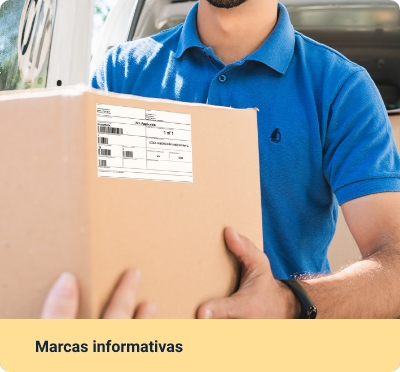
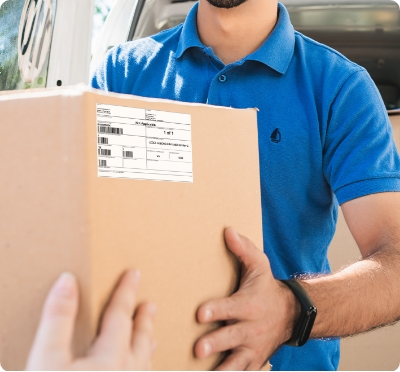
Ajustes Repositorio 1

Changed region(s): [[0.0, 0.8575, 1.0, 1.0]]

diff --git a/src/views/Tema3.vue b/src/views/Tema3.vue
@@ -14,10 +14,11 @@
         .tarjeta.tarjeta-slide.arriba.color-primario(@mouseover="indicadorTarjetaSlide = false")
           .indicador--hover(v-if="indicadorTarjetaSlide")
           .tarjeta-slide__contenedor
-            .tarjeta-slide__contenido.p-4.p-xl-5
+            .tarjeta-slide__contenido.p-4.px-5
               h5.mt-5.pt-5 Marcas informativas
               p.mb-5.mb-5 Son las que tienen relación con la información del producto.
             .tarjeta-slide__img(:style="{'background-image': `url(${require('@/assets/curso/temas/img31.jpg')})`}")
+              h3.text-center.p-flip_img.p-color.py-3 Marcas informativas
 
       .col-sm-6.col-xl-4.mb-4.mb-xl-0(data-aos="fade-down")
         .tarjeta.tarjeta-slide.arriba.color-primario(@mouseover="indicadorTarjetaSlide = false")
@@ -27,6 +28,7 @@
               h5.mt-5.pt-5 Marcas de manipuleo
               p.mb-5.mb-5 Son los símbolos o las orientaciones gráficas internacionales que permiten una correcta manipulación del producto o mercancías.
             .tarjeta-slide__img(:style="{'background-image': `url(${require('@/assets/curso/temas/img32.jpg')})`}")
+              h3.text-center.p-flip_img.p-color.py-3 Marcas de manipuleo          
 
       .col-sm-6.col-xl-4.mb-4.mb-xl-0(data-aos="fade-left")
         .tarjeta.tarjeta-slide.arriba.color-primario(@mouseover="indicadorTarjetaSlide = false")
@@ -36,6 +38,7 @@
               h5.mt-5.pt-5 Marca de expedición 
               p.mb-5.mb-5 Refiere los datos necesarios para la entrega de la mercancía o el embalaje al destinatario o en el lugar de destino.
             .tarjeta-slide__img(:style="{'background-image': `url(${require('@/assets/curso/temas/img33.jpg')})`}")
+              h3.text-center.p-flip_img.p-color.py-3 Marca de expedición
 
     TabsA.color-primario.mt-5(data-aos="fade-left") 
       .tarjeta.color-acento-botones--borde.p-4(titulo="Indebilidad")
@@ -92,7 +95,7 @@
         .col
           .row.justify-content-between.align-items-center
             .col.mb-3.mb-sm-0
-              p.mb-0 Si es de su interés ampliar la información puede ir al material complementario y consultar el video #[b “Etiquetado, marcado y rotulación”]
+              p.mb-0 Si es de su interés ampliar la información puede ir al material complementario y consultar el video #[b etiquetado, marcado, rotulación y legalidades]
             .col-sm-auto
               a.boton.color-acento-contenido.texto-blanco(href="https://www.youtube.com/watch?v=iYronFs13cE" target="_blank")
                 span Ver más

diff --git a/src/views/Tema1.vue b/src/views/Tema1.vue
@@ -218,7 +218,7 @@
         .col
           .row.justify-content-between.align-items-center
             .col.mb-3.mb-sm-0
-              p.mb-0 Si es de su interés ampliar la información puede ir al material complementario  y consultar el video #[b “Cálculo de peso volumétrico para paquetes”.]
+              p.mb-0 Si es de su interés ampliar la información puede ir al material complementario  y consultar el video #[b Cómo calcular el peso volumétrico de tus paquetes | Importación Courier.]
             .col-sm-auto
               a.boton.color-acento-contenido.texto-blanco(href="https://www.youtube.com/watch?v=K7lefxdO_io" target="_blank")
                 span Ver más
@@ -383,7 +383,7 @@
         .col
           .row.justify-content-between.align-items-center
             .col.mb-3.mb-sm-0
-              p.mb-0 Si es de su interés ampliar la información puede ir al material complementario y consultar el video #[b “Mercancías peligrosas”.]
+              p.mb-0 Si es de su interés ampliar la información puede ir al material complementario y consultar el video #[b Etiquetas de mercancías peligrosas ADR.]
             .col-sm-auto
               a.boton.color-acento-contenido.texto-blanco(href="https://www.youtube.com/watch?v=3YgFdAOl4jM" target="_blank")
                 span Ver más

diff --git a/src/views/Tema4.vue b/src/views/Tema4.vue
@@ -184,7 +184,7 @@
             p Referente al volumen y peso o peso volumétrico es la medida que se utiliza en el sector transporte y, hay que tener en cuenta que el tamaño de los envíos expresa densidad, esto sirve para calcular el volumen y calcular el peso real del envío, el peso volumétrico es la principal variable para establecer tarifas, como se trató en el numeral 1.2 peso y volumen la fórmula para definir el peso volumétrico es: 
             br 
             br
-            p.colorp-yellow.p-3 Largo x Ancho x Alto = Factor de peso volumétrico.
+            p.colorp-yellow.p-1 Largo x Ancho x Alto = Factor de peso volumétrico.
             br
             br
 

diff --git a/src/views/Tema2.vue b/src/views/Tema2.vue
@@ -38,7 +38,7 @@
         .col
           .row.justify-content-between.align-items-center
             .col.mb-3.mb-sm-0
-              p.mb-0 Si es de su interés ampliar la información puede ir al material complementario y consultar el video #[b “Envase, empaque, embalaje”]
+              p.mb-0 Si es de su interés ampliar la información puede ir al material complementario y consultar el video #[b envase, empaque y embalaje]
             .col-sm-auto
               a.boton.color-acento-contenido.texto-blanco(href="https://www.youtube.com/watch?v=bk8o7KSwJho" target="_blank")
                 span Ver más

diff --git a/src/styles/_custom.sass b/src/styles/_custom.sass
@@ -306,3 +306,18 @@
     transform: translateY(-20px)
   100%
     transform: translateY(-20px)
+
+.up
+  z-index: 3  
+
+.p-flip_img  
+  position: absolute
+  top: 85%
+  left: 0
+  right: 0
+  bottom: 0
+  margin: auto 
+  background-color: #FFDE96
+
+.p-color
+  color:  #12263F !important     
